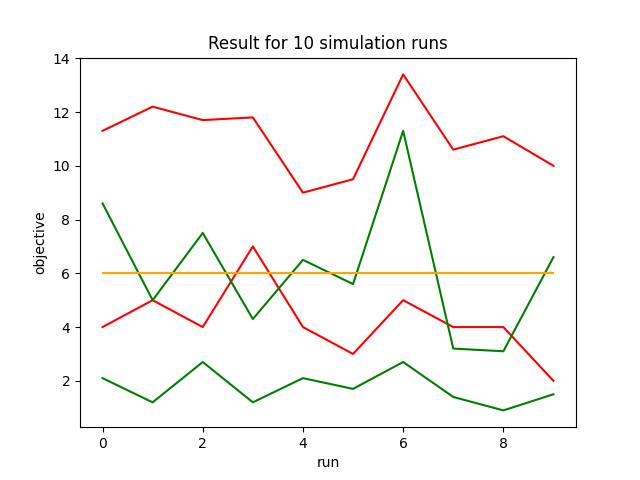
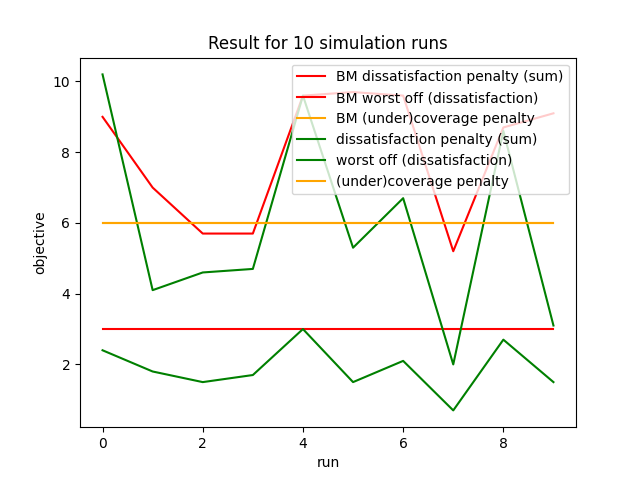
fix plot

diff --git a/NSP_benchmark/main.py b/NSP_benchmark/main.py
@@ -19,24 +19,24 @@ for run in range(runs):
     schedule, tot_dis_BM, worst_off_BM, coverage_BM = find_schedule(instance, weight_over=10,
                                                            weight_under=100, include_satisf = False)  # returns NSP and sol
 
-    total_dissat_runs.append(tot_dis)
+    total_dissat_runs.append(tot_dis/len(instance.N))
     worst_off_runs.append(worst_off)
     cover_runs.append(coverage/100)
-    total_dissat_BMs.append(tot_dis_BM)
+    total_dissat_BMs.append(tot_dis_BM/len(instance.N))
     worst_off_BMs.append(worst_off_BM)
     coverage_BMs.append(coverage_BM/100)
     # TODO: show also schedules with same coverage but lower satisfaction scores (obj = coverage only)
 
-plt.plot(np.arange(runs), total_dissat_BMs, color='red', label='BM dissatisfaction penalty (sum)')
-plt.plot(np.arange(runs), worst_off_BMs, color='red', label = 'BM worst off (dissatisfaction)')
-plt.plot(np.arange(runs), coverage_BMs, color='orange', label='BM (under)coverage penalty')
+plt.scatter(np.arange(runs), total_dissat_BMs, s='x', color='red', label='BM dissatisfaction penalty (sum)')
+plt.scatter(np.arange(runs), worst_off_BMs, s='o',color='red', label = 'BM worst off (dissatisfaction)')
+plt.scatter(np.arange(runs), coverage_BMs,s='-', color='orange', label='BM (under)coverage penalty')
 
-plt.plot(np.arange(runs), total_dissat_runs, color='green', label='dissatisfaction penalty (sum)')
-plt.plot(np.arange(runs), worst_off_runs, color='green', label = 'worst off (dissatisfaction)')
-plt.plot(np.arange(runs), cover_runs, color='orange', label='(under)coverage penalty')
+plt.scatter(np.arange(runs), total_dissat_runs, s='x', color='green', label='dissatisfaction penalty (sum)')
+plt.scatter(np.arange(runs), worst_off_runs, s='o',color='green', label = 'worst off (dissatisfaction)')
+plt.scatter(np.arange(runs), cover_runs, s='-', color='orange', label='(under)coverage penalty')
 plt.title(f'Result for {runs} simulation runs')
 plt.xlabel('run')
 plt.ylabel('objective')
-#plt.legend(loc='upper right')
+plt.legend(loc='upper right')
 plt.savefig(f'simulation results/Simulation results for {runs} runs.png')
 plt.show()
